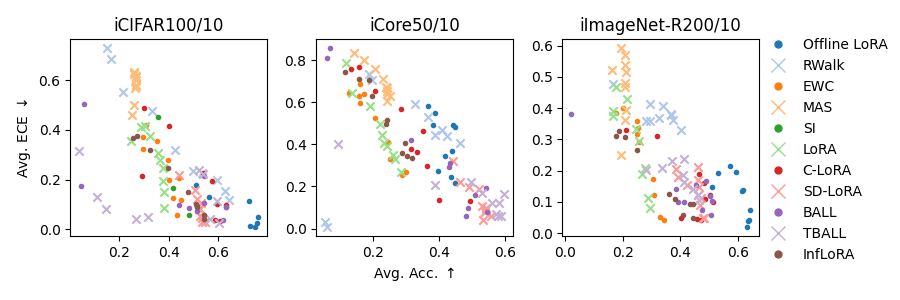
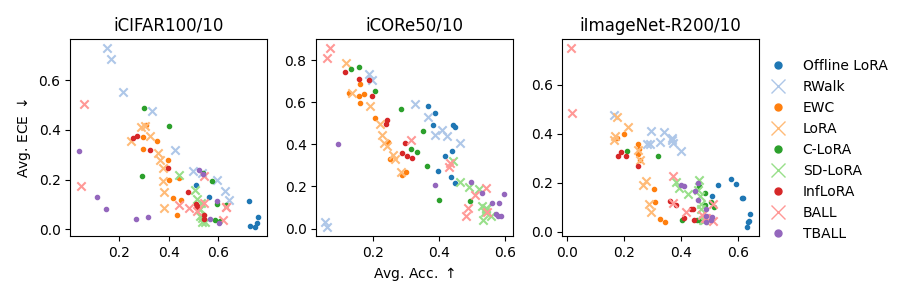
Refactor analysis dataframes and update methods
- Updated hpsearch_summary.csv to remove obsolete methods and adjust scores.
- Modified summary.parquet and time_series.parquet to reflect new data structure.
- Cleaned up hpsearch_plot.ipynb by removing unnecessary imports and updating Optuna storage initialization.
- Enhanced plots.ipynb with additional data analysis cells for method comparison.
- Updated tables.ipynb to refine data processing and display.
- Revised LaTeX tables for cifar100, core50, and imagenetr to reflect new metrics and improved formatting.
- Changed run_id type from str to int in update_dataframes.py for consistency.
- Removed unused gflop.py and related functionality from experiment.py.
- Improved parameter summary string formatting in _create.py for better readability.

diff --git a/analysis/update_dataframes.py b/analysis/update_dataframes.py
@@ -37,7 +37,7 @@ DATASETS = [
 class SummaryRecord:
     dataset: str
     method: str
-    run_id: str
+    run_id: int
     n_tasks: int
     accuracy_all_avg: float
     accuracy_final: float
@@ -57,12 +57,14 @@ class SummaryRecord:
     sce_seen_avg: float
     asce_final: float
 
+    _INDEX = ["dataset", "method", "run_id"]
+
 
 @dataclass
 class TimeSeriesRecord:
     dataset: str
     method: str
-    run_id: str
+    run_id: int
     task: int
     accuracy_all: float
     accuracy_seen: float
@@ -74,16 +76,20 @@ class TimeSeriesRecord:
     sce_all: float
     sce_seen: float
 
+    _INDEX = ["dataset", "method", "run_id", "task"]
+
 
 @dataclass
 class CalibrationRecord:
     dataset: str
     method: str
-    run_id: str
+    run_id: int
     bin: int
     bin_probability: float
     bin_frequency: float
     bin_weight: float
+
+    _INDEX = ["dataset", "method", "run_id", "bin"]
 
 
 def extract_bayescl(
@@ -177,7 +183,7 @@ def get_final_proba_and_targets(data) -> Tuple[Tensor, Tensor]:
 
 
 def to_summary_record(
-    dataset: str, method: str, run_id: str, data: Dict[str, Any]
+    dataset: str, method: str, run_id: int, data: Dict[str, Any]
 ) -> SummaryRecord:
     proba, targets = get_final_proba_and_targets(data)
     bin_probability, bin_frequency, bin_weights = compute_calibration_curve(
@@ -231,7 +237,7 @@ def calibration_curve(
 
 
 def to_calibration_record(
-    dataset: str, method: str, run_id: str, data: Dict[str, Any]
+    dataset: str, method: str, run_id: int, data: Dict[str, Any]
 ) -> Generator[CalibrationRecord, None, None]:
     bin_probability, bin_frequency, bin_weights = calibration_curve(data)
     n_bins = len(bin_probability)
@@ -248,7 +254,7 @@ def to_calibration_record(
 
 
 def to_timeseries_record(
-    dataset: str, method: str, run_id: str, data: Dict[str, Any]
+    dataset: str, method: str, run_id: int, data: Dict[str, Any]
 ) -> Generator[TimeSeriesRecord, None, None]:
     n_tasks = data["n_tasks"]
     for task in range(n_tasks):
@@ -278,20 +284,22 @@ time_series_records = []
 calibration_records = []
 
 archive = Path("/local/scratch/antonlee/archive")
-
+#  /local/scratch/antonlee/archive/eval_imagenetr_inflora_0.zip /local/scratch/antonlee/archive/eval_imagenetr_inflora_01.zip /local/scratch/antonlee/archive/eval_imagenetr_tball_01.zip
 # # BayesCL extraction and transformations
 print("DATASET/METHOD/RUN_ID")
 for dataset, method, run_id, data in chain(
     # from_logs("log/test"),
-    # from_zip(archive / "eval_cifar100_inflora_0.zip"),
-    # from_zip(archive / "eval_imagenetr_inflora_0.zip"),
-    from_zip(archive / "eval_core50_inflora_0.zip"),
+    from_zip(archive / "eval_cifar100_inflora_01.zip"),
+    from_zip(archive / "eval_core50_inflora_01.zip"),
+    from_zip(archive / "eval_imagenetr_inflora_01.zip"),
+    from_zip(archive / "eval_imagenetr_ball_01.zip"),
+    from_zip(archive / "eval_imagenetr_tball_01.zip"),
 ):
     print(f"{dataset}/{method}/{run_id}")
-    summary_records.append(to_summary_record(dataset, method, run_id, data))
-    for record in to_timeseries_record(dataset, method, run_id, data):
+    summary_records.append(to_summary_record(dataset, method, int(run_id), data))
+    for record in to_timeseries_record(dataset, method, int(run_id), data):
         time_series_records.append(record)
-    for record in to_calibration_record(dataset, method, run_id, data):
+    for record in to_calibration_record(dataset, method, int(run_id), data):
         calibration_records.append(record)
 
 
@@ -299,16 +307,38 @@ summary_filename = "analysis/dataframe/summary.parquet"
 time_series_filename = "analysis/dataframe/time_series.parquet"
 calibration_filename = "analysis/dataframe/calibration.parquet"
 
-summary_df = pd.read_parquet(summary_filename)
-time_series_df = pd.read_parquet(time_series_filename)
-calibration_df = pd.read_parquet(calibration_filename)
+summary_df = pd.read_parquet(summary_filename).reset_index()
+time_series_df = pd.read_parquet(time_series_filename).reset_index()
+calibration_df = pd.read_parquet(calibration_filename).reset_index()
 
-pd.concat([summary_df, dataclass_to_df(summary_records)], ignore_index=True).to_parquet(
-    summary_filename
+summary_df["run_id"] = summary_df["run_id"].astype(int)
+time_series_df["run_id"] = time_series_df["run_id"].astype(int)
+calibration_df["run_id"] = calibration_df["run_id"].astype(int)
+
+summary_df.set_index(SummaryRecord._INDEX, inplace=True)
+time_series_df.set_index(TimeSeriesRecord._INDEX, inplace=True)
+calibration_df.set_index(CalibrationRecord._INDEX, inplace=True)
+
+# drop duplicates rows
+summary_df = summary_df[~summary_df.index.duplicated(keep="first")]
+time_series_df = time_series_df[~time_series_df.index.duplicated(keep="first")]
+calibration_df = calibration_df[~calibration_df.index.duplicated(keep="first")]
+
+
+new_summary_df = dataclass_to_df(summary_records).set_index(SummaryRecord._INDEX)
+new_time_series_df = dataclass_to_df(time_series_records).set_index(
+    TimeSeriesRecord._INDEX
 )
-pd.concat(
-    [time_series_df, dataclass_to_df(time_series_records)], ignore_index=True
-).to_parquet(time_series_filename)
-pd.concat(
-    [calibration_df, dataclass_to_df(calibration_records)], ignore_index=True
-).to_parquet(calibration_filename)
+new_calibration_df = dataclass_to_df(calibration_records).set_index(
+    CalibrationRecord._INDEX
+)
+
+
+# upsert new records into existing dataframes
+new_summary_df.combine_first(summary_df).reset_index().to_parquet(summary_filename)
+new_time_series_df.combine_first(time_series_df).reset_index().to_parquet(
+    time_series_filename
+)
+new_calibration_df.combine_first(calibration_df).reset_index().to_parquet(
+    calibration_filename
+)

diff --git a/bayescl/peft/_create.py b/bayescl/peft/_create.py
@@ -113,21 +113,42 @@ def count_adapter_parameters(module: nn.Module) -> int:
 
 def parameter_summary_str(module: nn.Module) -> str:
     """Print a summary of the number of parameters in the module."""
-    total_params = sum(p.numel() for p in module.parameters())
-    trainable_params = sum(p.numel() for p in module.parameters() if p.requires_grad)
-    buffers = sum(p.numel() for p in module.buffers())
-    frozen_params = total_params - trainable_params
-    adapter_params = count_adapter_parameters(module)
+    param_sum = sum(p.numel() for p in module.parameters())
+    param_grad_sum = sum(p.numel() for p in module.parameters() if p.requires_grad)
+    buf_sum = sum(p.numel() for p in module.buffers())
 
-    fmt_int = ">10,"
-    fmt_percent = ">9.2f"
-    return (
-        f"Total:       {total_params:{fmt_int}}\n"
-        f"Trainable:   {trainable_params:{fmt_int}}\n"
-        f"Frozen:      {frozen_params:{fmt_int}}\n"
-        f"Buffers:     {buffers:{fmt_int}}\n"
-        f"Adapter:     {adapter_params:{fmt_int}}\n"
-        f"Non-adapter: {(total_params - adapter_params):{fmt_int}}\n"
-        f"Adapter %:   {(adapter_params / total_params * 100):{fmt_percent}}%\n"
-        f"Trainable %: {(trainable_params / total_params * 100):{fmt_percent}}%\n"
-    )
+    adapter_param_sum = 0
+    adapter_param_grad_sum = 0
+    adapter_buf_sum = 0
+    for _, adapter in iter_named_adapters(module):
+        ignore = {"weight", "bias"}
+        assert isinstance(adapter, nn.Module)
+        adapter_param_sum += sum(
+            p.numel() for n, p in adapter.named_parameters() if n not in ignore
+        )
+        adapter_param_grad_sum += sum(
+            p.numel()
+            for n, p in adapter.named_parameters()
+            if n not in ignore and p.requires_grad
+        )
+        adapter_buf_sum += sum(
+            p.numel() for n, p in adapter.named_buffers() if n not in ignore
+        )
+
+    # Formatting logic
+    header = f"{'Category':<20} {'Frozen':>15} {'Trainable':>15} {'Buffers':>12}"
+    divider = "-" * len(header)
+
+    fmt = ">15,"
+    b_fmt = ">12,"
+
+    lines = [
+        divider,
+        header,
+        divider,
+        f"{'Main Module':<20} {param_sum - param_grad_sum:{fmt}} {param_grad_sum:{fmt}} {buf_sum:{b_fmt}}",
+        f"{'Adapters':<20} {adapter_param_sum - adapter_param_grad_sum:{fmt}} {adapter_param_grad_sum:{fmt}} {adapter_buf_sum:{b_fmt}}",
+        divider,
+    ]
+
+    return "\n".join(lines)

diff --git a/analysis/tables/imagenetr.tex b/analysis/tables/imagenetr.tex
@@ -1,15 +1,15 @@
 \begin{tabular}{llllll}
 \toprule
- & {\small Score $\uparrow$} & {\small Avg. Acc. $\uparrow$} & {\small Avg. ECE $\downarrow$} & {\small BWT $\uparrow$} & {\small SCE $\downarrow$} \\
+ & {\small Score $\uparrow$} & {\small Avg. Acc. $\uparrow$} & {\small Avg. ECE $\downarrow$} & {\small BWT $\uparrow$} & {\small ASCE $\downarrow$} \\
 \midrule
 Offline LoRA & {\small \textit{NA}} & {\small \textit{NA}} & {\small \textit{NA}} & {\small \textit{NA}} & \small \textit{0.015 $\pm$ 0.003} \\
-RWalk & \small 54.66 $\pm$ 0.65$^{\downarrow}$ & \small 40.17 $\pm$ 0.54$^{\downarrow}$ & \small 30.86 $\pm$ 0.80$^{\uparrow}$ & \small -4.93 $\pm$ 0.59$^{\downarrow}$ & \small 0.321 $\pm$ 0.030$^{\uparrow}$ \\
+RWalk & \small 54.66 $\pm$ 0.65$^{\downarrow}$ & \small 40.17 $\pm$ 0.54$^{\downarrow}$ & \small 30.86 $\pm$ 0.80$^{\uparrow}$ & \small \textbf{-4.93 $\pm$ 0.59}$^{\uparrow}$ & \small 0.321 $\pm$ 0.030$^{\uparrow}$ \\
 EWC & \small 47.06 $\pm$ 0.36$^{\downarrow}$ & \small 25.61 $\pm$ 0.35$^{\downarrow}$ & \small 31.49 $\pm$ 0.44$^{\uparrow}$ & \small -61.08 $\pm$ 0.37$^{\downarrow}$ & \small 0.579 $\pm$ 0.015$^{\uparrow}$ \\
-LoRA & \small 62.11 $\pm$ 0.26$^{\downarrow}$ & \small 30.54 $\pm$ 0.33$^{\downarrow}$ & \small \textbf{6.32 $\pm$ 0.44}$^{\downarrow}$ & \small -55.45 $\pm$ 1.18$^{\downarrow}$ & \small 0.106 $\pm$ 0.013 \\
-C-LoRA & \small 65.49 $\pm$ 0.33$^{\downarrow}$ & \small 47.66 $\pm$ 0.29 & \small 16.68 $\pm$ 0.38$^{\uparrow}$ & \small -13.97 $\pm$ 0.59$^{\downarrow}$ & \small 0.211 $\pm$ 0.005$^{\uparrow}$ \\
-SD-LoRA & \small \textbf{70.15 $\pm$ 0.48}$^{\uparrow}$ & \small \textbf{51.45 $\pm$ 0.58}$^{\uparrow}$ & \small 11.15 $\pm$ 0.44 & \small -12.82 $\pm$ 0.72$^{\downarrow}$ & \small 0.167 $\pm$ 0.007 \\
-InfLoRA & \small 59.74 $\pm$ 0.85$^{\downarrow}$ & \small 34.28 $\pm$ 0.70$^{\downarrow}$ & \small 14.80 $\pm$ 1.01$^{\uparrow}$ & \small -42.03 $\pm$ 0.93$^{\downarrow}$ & \small 0.228 $\pm$ 0.015$^{\uparrow}$ \\
-TBALL & \small 67.98 $\pm$ 0.46 & \small 48.44 $\pm$ 0.25 & \small 12.49 $\pm$ 0.75 & \small -7.55 $\pm$ 0.87$^{\downarrow}$ & \small 0.310 $\pm$ 0.040$^{\uparrow}$ \\
-BALL & \small 67.70 $\pm$ 0.36 & \small 47.67 $\pm$ 0.63 & \small 12.27 $\pm$ 0.14 & \small \textbf{-2.28 $\pm$ 0.47} & \small \textbf{0.088 $\pm$ 0.028} \\
+LoRA & \small 62.11 $\pm$ 0.26$^{\downarrow}$ & \small 30.54 $\pm$ 0.33$^{\downarrow}$ & \small 6.32 $\pm$ 0.44$^{\uparrow}$ & \small -55.45 $\pm$ 1.18$^{\downarrow}$ & \small 0.106 $\pm$ 0.013$^{\uparrow}$ \\
+C-LoRA & \small 65.49 $\pm$ 0.33$^{\downarrow}$ & \small 47.66 $\pm$ 0.29$^{\downarrow}$ & \small 16.68 $\pm$ 0.38$^{\uparrow}$ & \small -13.97 $\pm$ 0.59$^{\downarrow}$ & \small 0.211 $\pm$ 0.005$^{\uparrow}$ \\
+SD-LoRA & \small 70.15 $\pm$ 0.48$^{\downarrow}$ & \small 51.45 $\pm$ 0.58 & \small 11.15 $\pm$ 0.44$^{\uparrow}$ & \small -12.82 $\pm$ 0.72$^{\downarrow}$ & \small 0.166 $\pm$ 0.007$^{\uparrow}$ \\
+InfLoRA & \small 70.78 $\pm$ 0.09$^{\downarrow}$ & \small 45.96 $\pm$ 0.32$^{\downarrow}$ & \small 4.39 $\pm$ 0.45 & \small -29.66 $\pm$ 0.97$^{\downarrow}$ & \small 0.050 $\pm$ 0.005 \\
+TBALL & \small \textbf{74.66 $\pm$ 0.21}$^{\uparrow}$ & \small \textbf{51.88 $\pm$ 0.37}$^{\uparrow}$ & \small \textbf{2.56 $\pm$ 0.15}$^{\downarrow}$ & \small -9.44 $\pm$ 0.36$^{\downarrow}$ & \small \textbf{0.014 $\pm$ 0.005} \\
+BALL & \small 73.40 $\pm$ 0.17 & \small 50.42 $\pm$ 0.32 & \small 3.62 $\pm$ 0.28 & \small -7.12 $\pm$ 0.58 & \small 0.031 $\pm$ 0.006 \\
 \bottomrule
 \end{tabular}

diff --git a/bayescl/experiment.py b/bayescl/experiment.py
@@ -44,7 +44,6 @@ from torch import BoolTensor
 
 from bayescl import config
 from bayescl.benchmark import get_benchmark
-from bayescl.gflop import monkey_patch_count_flops
 from bayescl.methods.ball import BALLAdapterFactory
 from bayescl.methods.inflora import InfLoRAAdapterFactory, InfLoRAPlugin
 from bayescl.methods.lora import LoRAAdapterFactory
@@ -385,12 +384,3 @@ class Experiment:
 
     def count_parameters(self):
         print(parameter_summary_str(self.model))
-
-    def count_flops(self):
-        self.cfg.max_tasks = 2
-        self.cfg.epochs = 1
-        self.plugins.remove(self.metrics_plugin)
-        self.metrics_plugin = None
-        monkey_patch_count_flops()
-        self.run()
-        logger.info("\n" + parameter_summary_str(self.model))

diff --git a/analysis/tables/core50.tex b/analysis/tables/core50.tex
@@ -1,14 +1,14 @@
 \begin{tabular}{llllll}
 \toprule
- & {\small Score $\uparrow$} & {\small Avg. Acc. $\uparrow$} & {\small Avg. ECE $\downarrow$} & {\small BWT $\uparrow$} & {\small SCE $\downarrow$} \\
+ & {\small Score $\uparrow$} & {\small Avg. Acc. $\uparrow$} & {\small Avg. ECE $\downarrow$} & {\small BWT $\uparrow$} & {\small ASCE $\downarrow$} \\
 \midrule
 Offline LoRA & {\small \textit{NA}} & {\small \textit{NA}} & {\small \textit{NA}} & {\small \textit{NA}} & \small \textit{0.262 $\pm$ 0.033}$^{\downarrow}$ \\
 RWalk & \small 52.30 $\pm$ 2.88$^{\downarrow}$ & \small 44.28 $\pm$ 2.63 & \small 39.69 $\pm$ 3.14$^{\uparrow}$ & \small -16.80 $\pm$ 2.49 & \small 2.506 $\pm$ 0.075$^{\uparrow}$ \\
 EWC & \small 47.03 $\pm$ 1.12$^{\downarrow}$ & \small 28.63 $\pm$ 0.92$^{\downarrow}$ & \small 34.58 $\pm$ 1.52$^{\uparrow}$ & \small -79.15 $\pm$ 1.69$^{\downarrow}$ & \small 2.618 $\pm$ 0.167$^{\uparrow}$ \\
 LoRA & \small 51.92 $\pm$ 0.87$^{\downarrow}$ & \small 30.86 $\pm$ 0.90$^{\downarrow}$ & \small 27.01 $\pm$ 1.06 & \small -80.30 $\pm$ 2.22$^{\downarrow}$ & \small 2.039 $\pm$ 0.109$^{\uparrow}$ \\
 C-LoRA & \small 50.30 $\pm$ 2.19$^{\downarrow}$ & \small 40.01 $\pm$ 1.58$^{\downarrow}$ & \small 39.41 $\pm$ 2.85$^{\uparrow}$ & \small \textbf{-9.84 $\pm$ 2.11} & \small 1.948 $\pm$ 0.059$^{\uparrow}$ \\
-SD-LoRA & \small 70.39 $\pm$ 0.95 & \small 58.26 $\pm$ 0.85 & \small 17.48 $\pm$ 1.07 & \small -31.89 $\pm$ 1.41$^{\downarrow}$ & \small 1.204 $\pm$ 0.112 \\
-InfLoRA & \small 47.32 $\pm$ 1.49$^{\downarrow}$ & \small 31.23 $\pm$ 1.36$^{\downarrow}$ & \small 36.59 $\pm$ 1.93$^{\uparrow}$ & \small -65.65 $\pm$ 0.40$^{\downarrow}$ & \small 2.428 $\pm$ 0.138$^{\uparrow}$ \\
+SD-LoRA & \small 70.39 $\pm$ 0.95 & \small 58.26 $\pm$ 0.85 & \small 17.48 $\pm$ 1.07 & \small -31.89 $\pm$ 1.41$^{\downarrow}$ & \small 1.205 $\pm$ 0.111 \\
+InfLoRA & \small 61.96 $\pm$ 1.14 & \small 40.92 $\pm$ 0.79$^{\downarrow}$ & \small 17.00 $\pm$ 1.55 & \small -62.18 $\pm$ 1.87$^{\downarrow}$ & \small 1.364 $\pm$ 0.235 \\
 TBALL & \small \textbf{73.17 $\pm$ 0.60} & \small \textbf{59.76 $\pm$ 1.07}$^{\uparrow}$ & \small \textbf{13.42 $\pm$ 1.12} & \small -14.69 $\pm$ 2.52 & \small \textbf{0.472 $\pm$ 0.034}$^{\downarrow}$ \\
 BALL & \small 66.39 $\pm$ 2.80 & \small 51.11 $\pm$ 2.54 & \small 18.33 $\pm$ 3.10 & \small -12.54 $\pm$ 2.30 & \small 1.073 $\pm$ 0.110 \\
 \bottomrule

diff --git a/analysis/tables/cifar100.tex b/analysis/tables/cifar100.tex
@@ -1,6 +1,6 @@
 \begin{tabular}{llllll}
 \toprule
- & {\small Score $\uparrow$} & {\small Avg. Acc. $\uparrow$} & {\small Avg. ECE $\downarrow$} & {\small BWT $\uparrow$} & {\small SCE $\downarrow$} \\
+ & {\small Score $\uparrow$} & {\small Avg. Acc. $\uparrow$} & {\small Avg. ECE $\downarrow$} & {\small BWT $\uparrow$} & {\small ASCE $\downarrow$} \\
 \midrule
 Offline LoRA & {\small \textit{NA}} & {\small \textit{NA}} & {\small \textit{NA}} & {\small \textit{NA}} & \small \textit{0.017 $\pm$ 0.004} \\
 RWalk & \small 77.62 $\pm$ 0.45$^{\downarrow}$ & \small \textbf{65.33 $\pm$ 0.55}$^{\uparrow}$ & \small 10.08 $\pm$ 0.80$^{\uparrow}$ & \small -13.39 $\pm$ 2.43 & \small 0.309 $\pm$ 0.037$^{\uparrow}$ \\
@@ -8,7 +8,7 @@ EWC & \small 54.08 $\pm$ 0.76$^{\downarrow}$ & \small 37.75 $\pm$ 0.63$^{\downar
 LoRA & \small 64.28 $\pm$ 0.62$^{\downarrow}$ & \small 37.97 $\pm$ 0.73$^{\downarrow}$ & \small 9.40 $\pm$ 0.56$^{\uparrow}$ & \small -65.40 $\pm$ 1.32$^{\downarrow}$ & \small 0.439 $\pm$ 0.017$^{\uparrow}$ \\
 C-LoRA & \small 75.34 $\pm$ 0.78$^{\downarrow}$ & \small 62.61 $\pm$ 0.76 & \small 11.93 $\pm$ 0.82$^{\uparrow}$ & \small \textbf{-12.49 $\pm$ 0.35} & \small 0.247 $\pm$ 0.025 \\
 SD-LoRA & \small 77.62 $\pm$ 0.64 & \small 62.52 $\pm$ 0.66 & \small 7.29 $\pm$ 0.66$^{\uparrow}$ & \small -20.44 $\pm$ 1.35$^{\downarrow}$ & \small 0.214 $\pm$ 0.017 \\
-InfLoRA & \small 67.71 $\pm$ 0.80$^{\downarrow}$ & \small 49.17 $\pm$ 0.93$^{\downarrow}$ & \small 13.75 $\pm$ 0.76$^{\uparrow}$ & \small -54.94 $\pm$ 0.92$^{\downarrow}$ & \small 0.461 $\pm$ 0.023$^{\uparrow}$ \\
+InfLoRA & \small 76.18 $\pm$ 0.37$^{\downarrow}$ & \small 55.89 $\pm$ 0.55$^{\downarrow}$ & \small 3.52 $\pm$ 0.31 & \small -43.29 $\pm$ 1.25$^{\downarrow}$ & \small 0.098 $\pm$ 0.018 \\
 TBALL & \small 79.37 $\pm$ 0.19 & \small 61.71 $\pm$ 1.09 & \small \textbf{2.98 $\pm$ 0.71} & \small -16.01 $\pm$ 0.50 & \small \textbf{0.058 $\pm$ 0.002} \\
 BALL & \small \textbf{79.73 $\pm$ 0.11} & \small 62.82 $\pm$ 0.10 & \small 3.35 $\pm$ 0.32 & \small -12.62 $\pm$ 0.34 & \small 0.107 $\pm$ 0.015 \\
 \bottomrule

diff --git a/analysis/common.py b/analysis/common.py
@@ -63,7 +63,7 @@ _STYLE["None"] = {
 DATASET_TO_LABEL = {
     "cifar100": "iCIFAR100/10",
     # "domainnet": "iDomainNet345/5",
-    "core50": "iCore50/10",
+    "core50": "iCORe50/10",
     "imagenetr": "iImageNet-R200/10",
 }
 